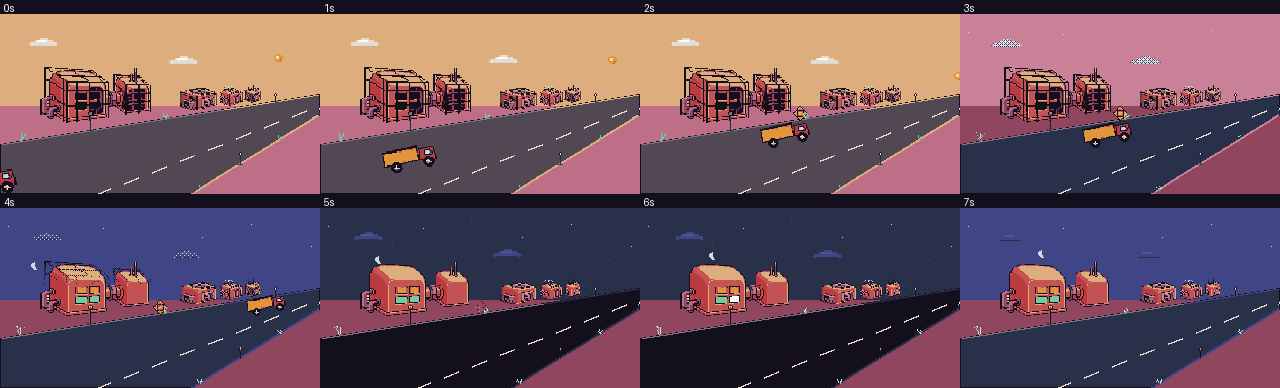
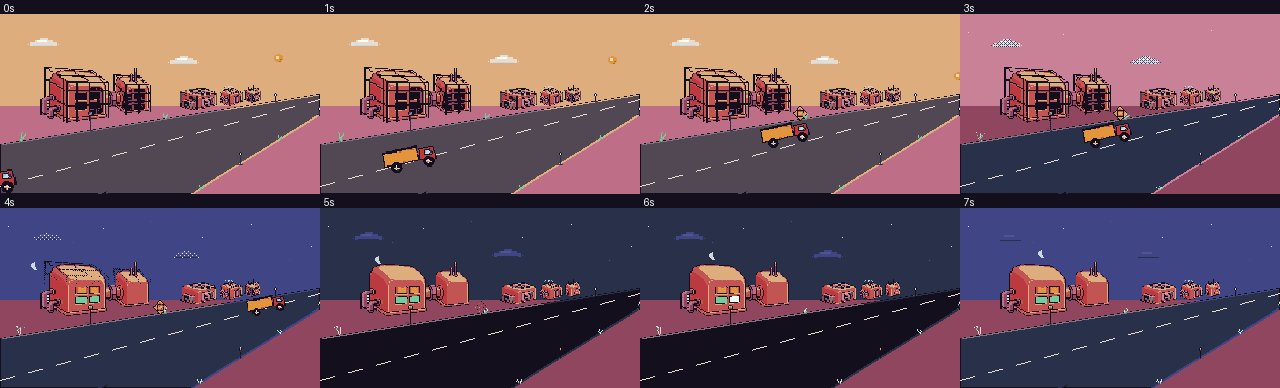
feat(title): align and deduplicate road dashes

diff --git a/tools/build_title_layer_animation.py b/tools/build_title_layer_animation.py
@@ -5,6 +5,7 @@ from __future__ import annotations
 
 import argparse
 import hashlib
+import io
 import json
 import math
 import shutil
@@ -58,6 +59,10 @@ TRANSPARENT = (0, 0, 0, 0)
 
 VANISHING_POINT = (1088.0 / 3.0, 220.0 / 3.0)
 TRUCK_STOP = (145.0, 121.0)
+ROAD_DASH_START = (0.0, 172.0)
+ROAD_DASH_END = (319.0, 85.21)
+ROAD_DASH_LENGTH_X = 14
+ROAD_DASH_PERIOD_X = 28
 
 BAYER_8 = (
     (0, 32, 8, 40, 2, 34, 10, 42),
@@ -282,8 +287,44 @@ def recolor(
     return result
 
 
+def road_dash_y(x: float) -> float:
+    """Return the continuous center-dash guide at a source-image x coordinate."""
+    progress = (x - ROAD_DASH_START[0]) / (
+        ROAD_DASH_END[0] - ROAD_DASH_START[0]
+    )
+    return ROAD_DASH_START[1] + progress * (
+        ROAD_DASH_END[1] - ROAD_DASH_START[1]
+    )
+
+
+def redraw_road_center_dashes(image: Image.Image) -> Image.Image:
+    """Replace the baked center dashes with one deterministic perspective line."""
+    result = image.convert("RGBA").copy()
+    pixels = result.load()
+
+    # The terrain keyframe contains no cream-colored object other than the old
+    # center dashes. Clear both its ordinary cream pixels and its single bright
+    # highlight before drawing the new line, making repeated rebuilds idempotent.
+    for y in range(HEIGHT):
+        for x in range(WIDTH):
+            if pixels[x, y] in {CREAM, MINT_LIGHT}:
+                pixels[x, y] = NEUTRAL_DARK
+
+    for start_x in range(
+        int(ROAD_DASH_START[0]),
+        int(ROAD_DASH_END[0]) + 1,
+        ROAD_DASH_PERIOD_X,
+    ):
+        end_x = min(start_x + ROAD_DASH_LENGTH_X, int(ROAD_DASH_END[0]))
+        for x in range(start_x, end_x + 1):
+            pixels[x, round(road_dash_y(x))] = CREAM
+    return result
+
+
 def build_terrain_frames(static: Path) -> list[Image.Image]:
-    day = Image.open(static / "terrain_road_afternoon.png").convert("RGBA")
+    day = redraw_road_center_dashes(
+        Image.open(static / "terrain_road_afternoon.png")
+    )
     dusk = recolor(
         day,
         {
@@ -638,6 +679,39 @@ def validate_layer_frames(
         result["all_frames_opaque"] = all(
             frame.getchannel("A").getextrema() == (255, 255) for frame in frames
         )
+    if layer == "02_terrain":
+        endpoint_pixels = [
+            frame.getpixel(
+                (
+                    round(point[0]),
+                    round(point[1]),
+                )
+            )
+            for frame in frames
+            for point in (ROAD_DASH_START, ROAD_DASH_END)
+        ]
+        dash_pixels = [
+            (x, y)
+            for y in range(HEIGHT)
+            for x in range(WIDTH)
+            if frames[0].getpixel((x, y)) == CREAM
+        ]
+        maximum_deviation = max(
+            (abs(y - road_dash_y(x)) for x, y in dash_pixels),
+            default=float("inf"),
+        )
+        result["road_dash_guide"] = {
+            "start": list(ROAD_DASH_START),
+            "end": list(ROAD_DASH_END),
+        }
+        result["road_dash_endpoint_pixels_present"] = all(
+            pixel == CREAM for pixel in endpoint_pixels
+        )
+        result["road_dash_maximum_raster_deviation_pixels"] = round(
+            maximum_deviation,
+            3,
+        )
+        result["road_dash_follows_guide"] = maximum_deviation <= 0.5
     return result
 
 
@@ -664,6 +738,7 @@ def save_frames(
     layer: str,
     frames: list[Image.Image],
     repo_root: Path,
+    existing_frame_bytes: dict[str, bytes],
 ) -> tuple[list[dict[str, object]], list[int]]:
     """Write only the distinct frames of one layer.
 
@@ -685,7 +760,24 @@ def save_frames(
             representative = index
             representative_by_digest[digest] = index
             path = directory / f"frame_{index:03d}.png"
-            frame.save(path, optimize=True)
+            relative_key = f"{layer}/frame_{index:03d}.png"
+            existing_bytes = existing_frame_bytes.get(relative_key)
+            reused_existing = False
+            if existing_bytes is not None:
+                try:
+                    existing_frame = Image.open(io.BytesIO(existing_bytes)).convert(
+                        "RGBA"
+                    )
+                    reused_existing = (
+                        existing_frame.size == frame.size
+                        and existing_frame.tobytes() == frame.convert("RGBA").tobytes()
+                    )
+                except OSError:
+                    reused_existing = False
+            if reused_existing:
+                path.write_bytes(existing_bytes)
+            else:
+                frame.save(path, optimize=True)
             record: dict[str, object] = {
                 "path": portable_path(path, repo_root),
                 "sha256": sha256(path),
@@ -798,10 +890,8 @@ def cargo_phase(frame: int) -> str:
 def ui_phase(frame: int) -> str:
     if frame < 42:
         return "hidden"
-    if frame < 46:
-        return "title_entering"
     if frame < 52:
-        return "title_and_subtitle_entering"
+        return "title_entering"
     if frame < 60:
         return "menu_entering"
     return "interactive"
@@ -1000,6 +1090,7 @@ def write_spec(
         "| Vanishing point | `(1088/3, 220/3) = (362.6667, 73.3333)` |",
         "| Road upper edge | `(0,130) → (320,80)` |",
         "| Road lower edge | `(160,200) → (320,100)` |",
+        "| Road center-dash guide | `(0,172) → (319,85.21)` |",
         "| Embedded text | Forbidden; title and menu are native Godot UI |",
         "",
         "Layer order is back-to-front and MUST remain:",
@@ -1067,6 +1158,11 @@ def write_spec(
         "### 02_terrain",
         "",
         "- Road edges and center dashes MUST not move between frames.",
+        "- The continuous center-dash guide MUST pass through source coordinates",
+        "  `(0,172)` and `(319,85.21)`; rasterized dash pixels may differ by at",
+        "  most `0.5 px` vertically.",
+        "- Exactly four distinct terrain PNGs are stored; the 64 logical frames",
+        "  resolve to them through `manifest.json`'s `frame_maps`.",
         "- Day/night changes are palette swaps, not geometry changes.",
         "- The off-canvas vanishing point MUST remain shared with all buildings.",
         "",
@@ -1103,7 +1199,7 @@ def write_spec(
         "`Label`, `Button`, `StyleBoxFlat`, and font resources.",
         "",
         "- Title begins at frame `42` (`5.250 s`).",
-        "- Subtitle begins at frame `46` (`5.750 s`).",
+        "- Only the native `Metabolis` title is shown; there is no subtitle.",
         "- Menu begins at frame `52` (`6.500 s`).",
         "- Menu becomes interactive at frame `60` (`7.500 s`).",
         "- Accept, cancel, or select input may skip to frame `63`.",
@@ -1144,10 +1240,10 @@ def build(repo_root: Path, preview_root: Path) -> dict[str, object]:
     static = repo_root / STATIC_ROOT
     output = repo_root / OUTPUT_ROOT
     palette = load_palette(repo_root / "art/palette.gpl")
-
-    if output.exists():
-        shutil.rmtree(output)
-    output.mkdir(parents=True, exist_ok=True)
+    existing_frame_bytes = {
+        path.relative_to(output).as_posix(): path.read_bytes()
+        for path in output.glob("*/frame_*.png")
+    }
 
     layers = {
         "01_sky": [build_sky_frame(frame) for frame in range(FRAME_COUNT)],
@@ -1173,16 +1269,41 @@ def build(repo_root: Path, preview_root: Path) -> dict[str, object]:
             required.append(result["never_intersects_road"])
         if layer == "01_sky":
             required.append(result["all_frames_opaque"])
+        if layer == "02_terrain":
+            required.extend(
+                [
+                    result["road_dash_endpoint_pixels_present"],
+                    result["road_dash_follows_guide"],
+                ]
+            )
         if not all(required):
             raise RuntimeError(f"Validation failed for {layer}: {result}")
 
+    # Keep the last known-good animation intact until every logical frame has
+    # passed validation. Only then replace the sparse output tree, which also
+    # removes representatives that became redundant after an edit.
+    if output.exists():
+        shutil.rmtree(output)
+    output.mkdir(parents=True, exist_ok=True)
+
     saved = {
-        layer: save_frames(output, layer, frames, repo_root)
+        layer: save_frames(
+            output,
+            layer,
+            frames,
+            repo_root,
+            existing_frame_bytes,
+        )
         for layer, frames in layers.items()
     }
     files = {layer: records for layer, (records, _) in saved.items()}
     frame_maps = {layer: frame_map for layer, (_, frame_map) in saved.items()}
     unique_frame_counts = {layer: len(records) for layer, records in files.items()}
+    if unique_frame_counts["02_terrain"] != 4:
+        raise RuntimeError(
+            "02_terrain must resolve to exactly four distinct static images, "
+            f"found {unique_frame_counts['02_terrain']}."
+        )
     for layer, frame_map in frame_maps.items():
         if len(frame_map) != FRAME_COUNT:
             raise RuntimeError(f"Frame map for {layer} is not {FRAME_COUNT} entries.")
@@ -1214,6 +1335,11 @@ def build(repo_root: Path, preview_root: Path) -> dict[str, object]:
         ),
         "frame_maps": frame_maps,
         "unique_frame_counts": unique_frame_counts,
+        "road_center_dash_guide": {
+            "start": list(ROAD_DASH_START),
+            "end": list(ROAD_DASH_END),
+            "equation": "y = 172 + (85.21 - 172) * x / 319",
+        },
         "layer_order": LAYER_ORDER,
         "timeline": [
             {"frames": [0, 13], "event": "truck enters from lower-left and approaches main building"},

diff --git a/docs/TITLE_INTRO_ANIMATION_SPEC.md b/docs/TITLE_INTRO_ANIMATION_SPEC.md
@@ -40,6 +40,7 @@ python tools/build_title_layer_animation.py \
 | Vanishing point | `(1088/3, 220/3) = (362.6667, 73.3333)` |
 | Road upper edge | `(0,130) → (320,80)` |
 | Road lower edge | `(160,200) → (320,100)` |
+| Road center-dash guide | `(0,172) → (319,85.21)` |
 | Embedded text | Forbidden; title and menu are native Godot UI |
 
 Layer order is back-to-front and MUST remain:
@@ -112,6 +113,11 @@ the first frame that introduces new pixels.
 ### 02_terrain
 
 - Road edges and center dashes MUST not move between frames.
+- The continuous center-dash guide MUST pass through source coordinates
+  `(0,172)` and `(319,85.21)`; rasterized dash pixels may differ by at
+  most `0.5 px` vertically.
+- Exactly four distinct terrain PNGs are stored; the 64 logical frames
+  resolve to them through `manifest.json`'s `frame_maps`.
 - Day/night changes are palette swaps, not geometry changes.
 - The off-canvas vanishing point MUST remain shared with all buildings.
 
